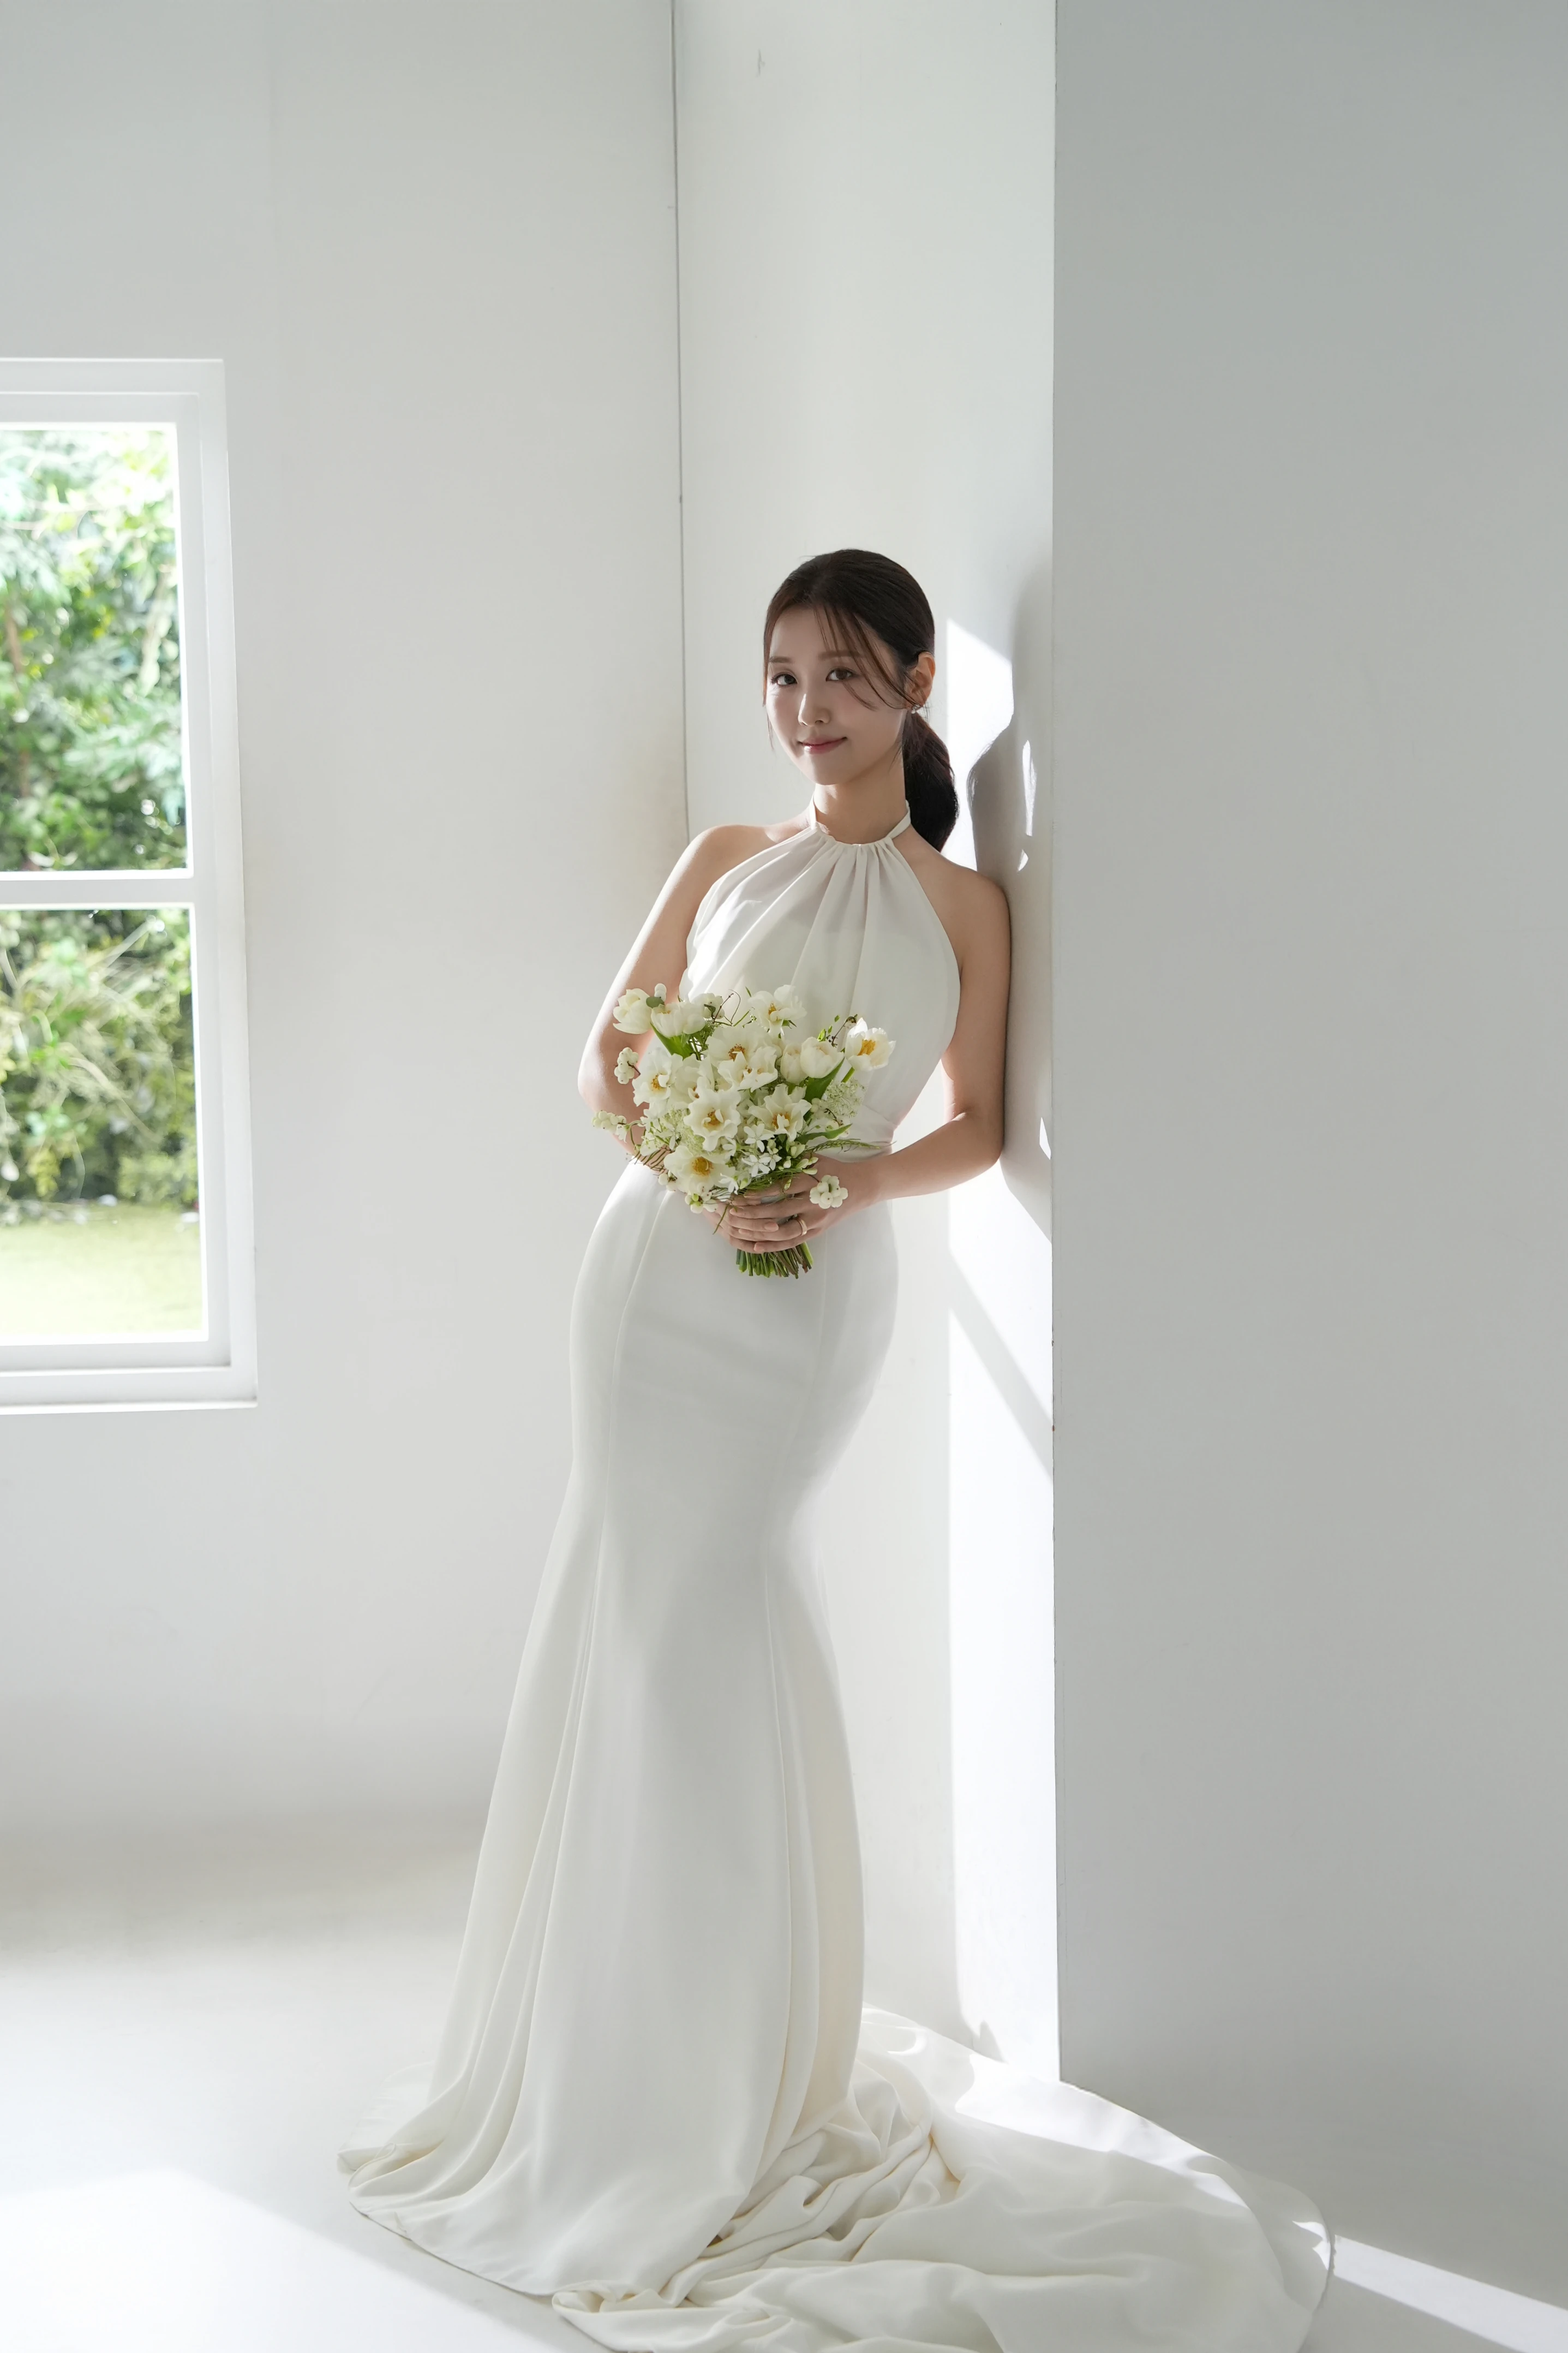
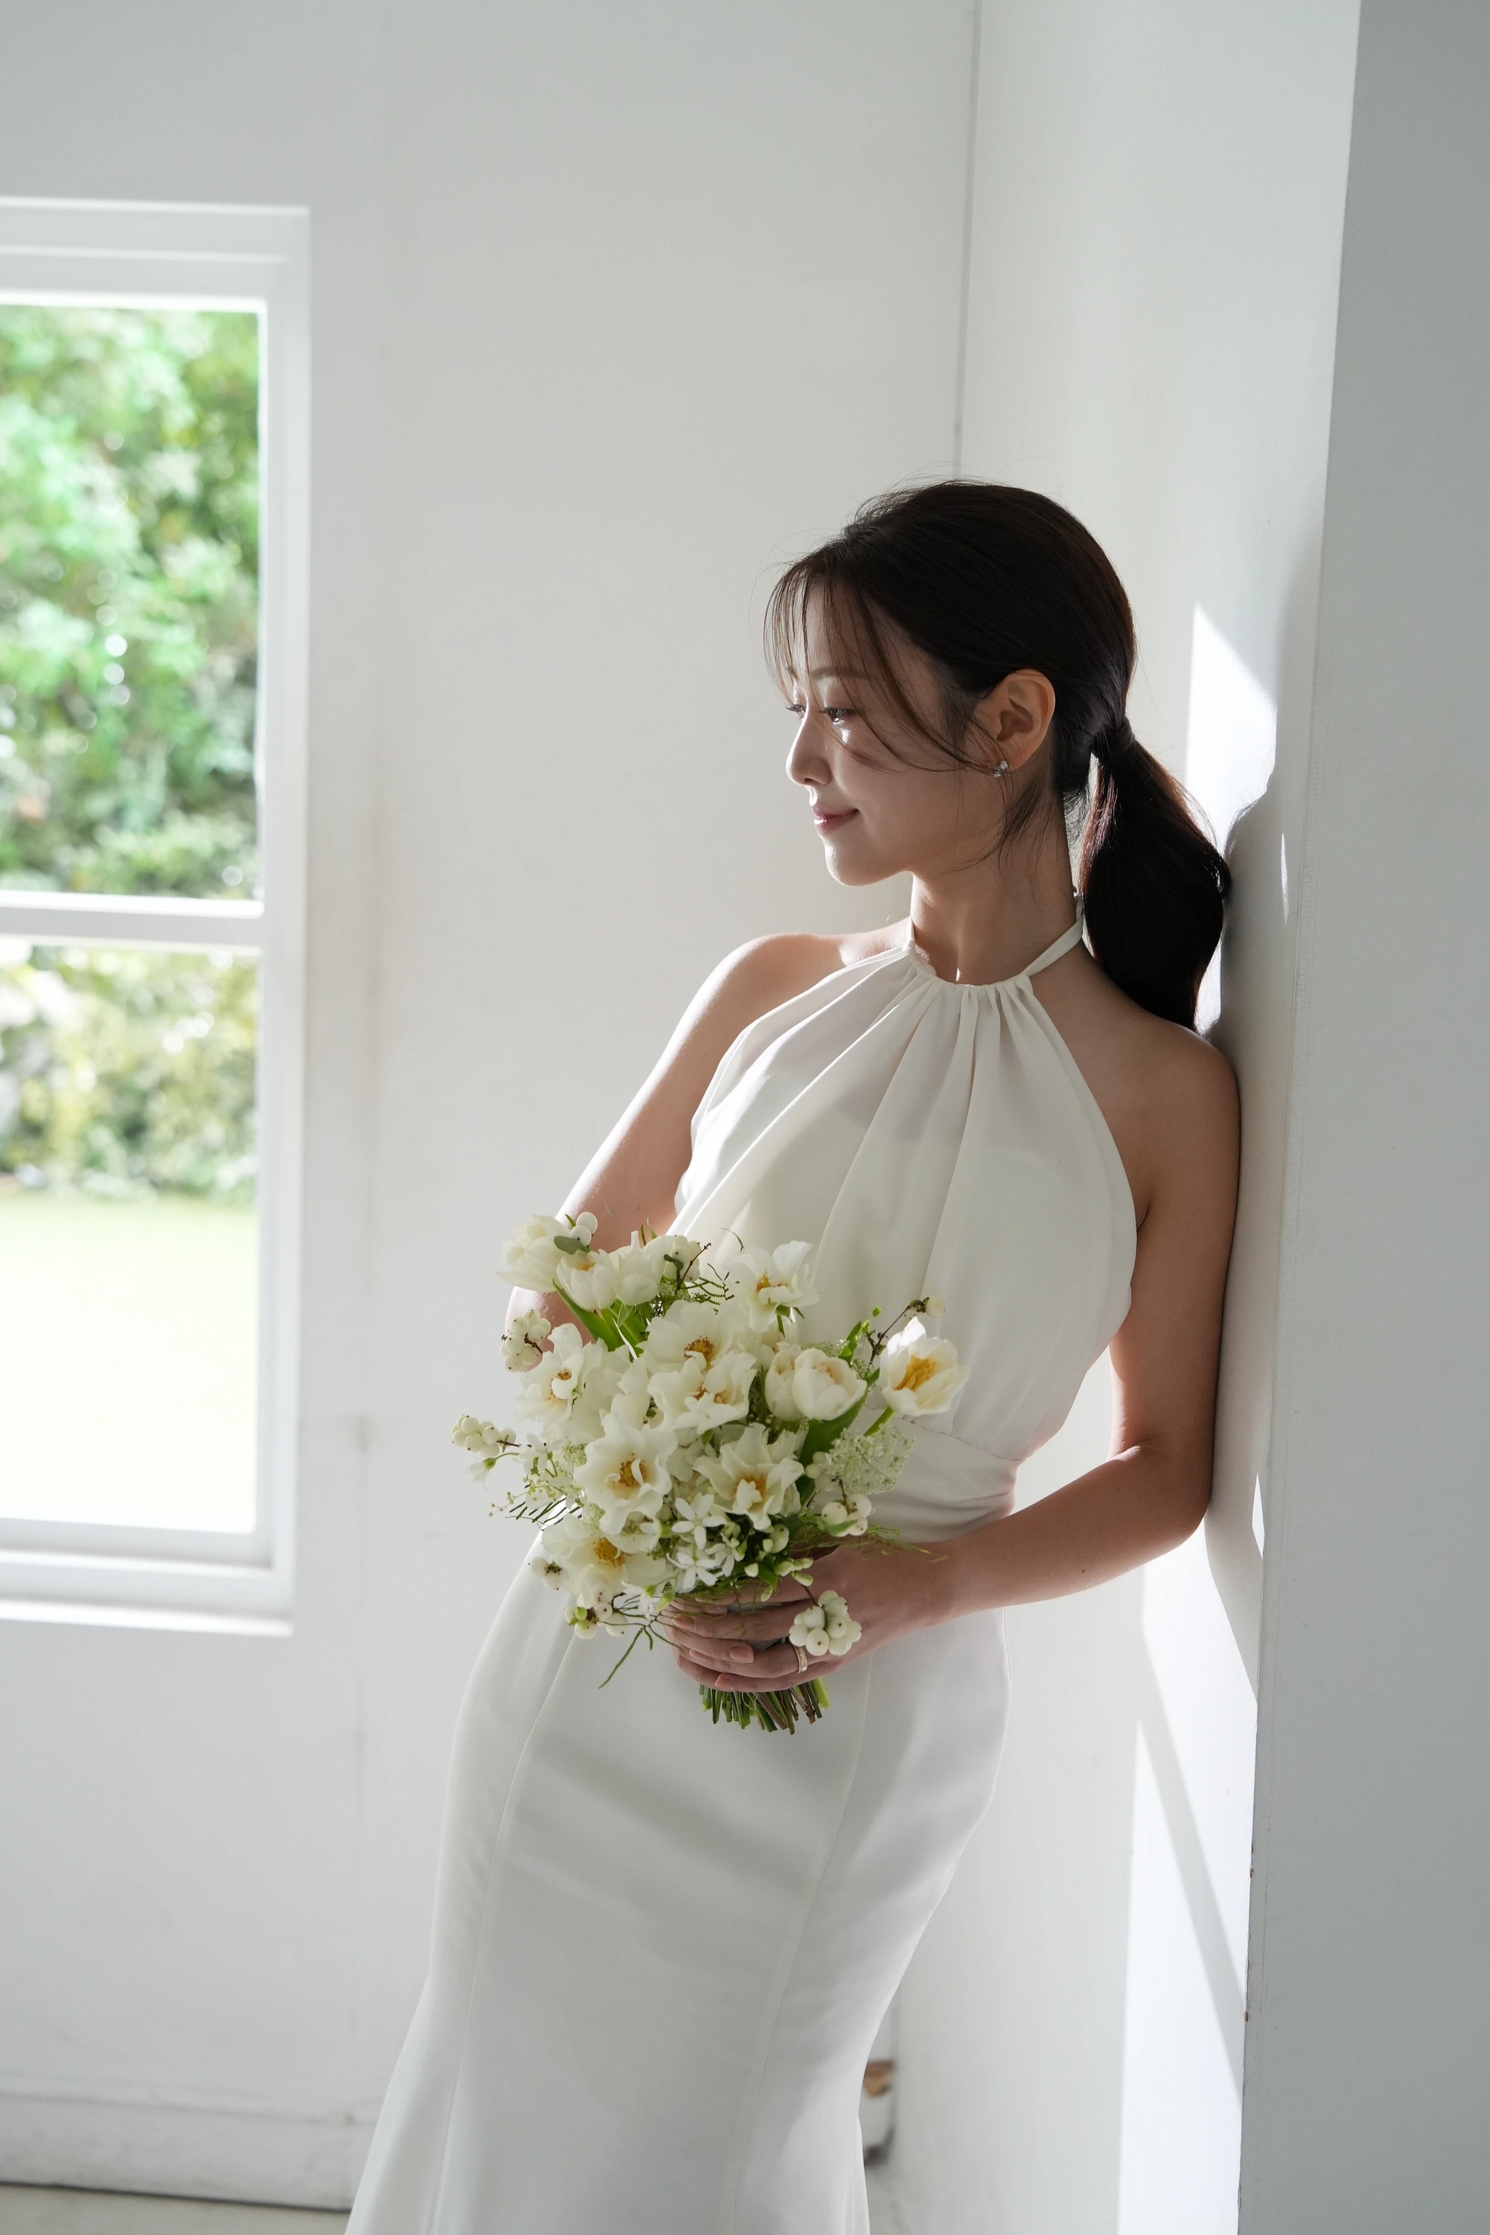
카카오 공유 이미지 URL을 자체 호스팅으로 변경 및 사진 최적화
- 카카오톡 공유 시 외부 이미지 서비스 대신 자체 도메인 이미지 사용
- 13번 사진 파일 재최적화
- 배포 가이드 문서에 배포 전 허락 규칙 추가

🤖 Generated with [Claude Code](https://claude.com/claude-code)

diff --git a/src/App.jsx b/src/App.jsx
@@ -40,7 +40,7 @@ export const shareKakao = () => {
       content: {
         title: '정원식 ♥ 이세인의 결혼식에 초대합니다.',
         description: '26.03.28 PM 1:30 · 더파티움여의도',
-        imageUrl: 'https://i.postimg.cc/6Wr3MfXf/kakaoshare.jpg', // FIXME
+        imageUrl: 'https://wonsik-se.in/main3.jpg',
         link: {
           mobileWebUrl: 'https://wonsik-se.in',
           webUrl: 'https://wonsik-se.in',

diff --git a/claude.md b/claude.md
@@ -1,4 +1,5 @@
 # Docker 이미지 AWS EC2 배포 가이드
+클러드는 배포 전에는 꼭 허락을 맡을것.
 
 ## 목차
 1. [사전 준비](#사전-준비)
